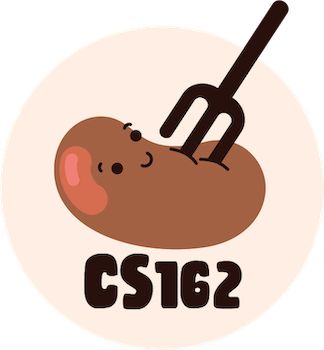
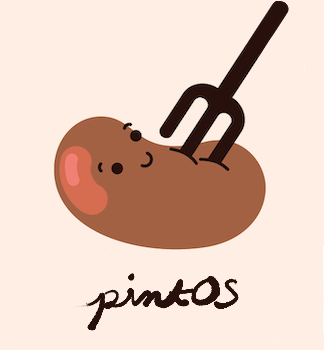
Style cards and create basic fading functions on click

diff --git a/html/portfolio.html b/html/portfolio.html
@@ -90,18 +90,26 @@
 
     <main>
       <section class="projects">
-        <header>
+        <header class="projects-header">
           <h1>projects</h1>
-          <h3>cool things i've worked on</h3>
+          <h3>some fun things i've worked on</h3>
         </header>
 
         <div class="card-group">
           <article class="card">
-            <img src="../images/cards/gemQuest.png" alt="Gems" />
+            <img src="../images/cards/microprocessor-chip.png" alt="Gems" />
             <header>
-              <h2>GemQuest</h2>
-              <h3>Social Networking App</h3>
-              <h4>Summer 2023</h4>
+              <h2>3-Stage RISC CPU</h2>
+              <h3>Digital Logic Design</h3>
+              <h4>Spring 2025</h4>
+            </header>
+          </article>
+          <article class="card">
+            <img src="../images/cards/dinner-in-the-closet.png" alt="Gems" />
+            <header>
+              <h2>Dinner in the Closet</h2>
+              <h3>Queer RPG</h3>
+              <h4>Spring 2024</h4>
             </header>
           </article>
           <article class="card">
@@ -113,32 +121,24 @@
             </header>
           </article>
           <article class="card">
-            <img src="../images/cards/gemQuest.png" alt="Gems" />
+            <img src="../images/cards/pintos.png" alt="Pinto Bean" />
             <header>
-              <h2>GemQuest</h2>
-              <h3>Social Networking App</h3>
-              <h4>Summer 2023</h4>
+              <h2>PintOS</h2>
+              <h3>Operating System</h3>
+              <h4>Spring 2023</h4>
             </header>
           </article>
           <article class="card">
-            <img src="../images/cards/gemQuest.png" alt="Gems" />
+            <img src="../images/cards/gitfork.png" alt="Git Fork" />
             <header>
-              <h2>GemQuest</h2>
-              <h3>Social Networking App</h3>
-              <h4>Summer 2023</h4>
-            </header>
-          </article>
-          <article class="card">
-            <img src="../images/cards/gemQuest.png" alt="Gems" />
-            <header>
-              <h2>GemQuest</h2>
-              <h3>Social Networking App</h3>
-              <h4>Summer 2023</h4>
+              <h2>Gitlet</h2>
+              <h3>Version-Control System</h3>
+              <h4>Fall 2021</h4>
             </header>
           </article>
         </div>
-
       </section>
+      <button class="btn">test</button>
       <!-- <section> -->
       <!--   <header> -->
           <!-- <h1>past experience</h1> -->

diff --git a/styles/portfolio.css b/styles/portfolio.css
@@ -115,8 +115,41 @@ main {
   margin: auto;
 }
 
+@keyframes fade-in {
+  from {
+    opacity: 0%;
+  }
+  to {
+    opacity: 100%;
+  }
+}
+
+@keyframes fade-out {
+  from {
+    opacity: 100%;
+  }
+  to {
+    opacity: 0%;
+  }
+}
+
 .projects {
   max-width: 50vw;
+}
+
+.projects header {
+  margin: 7em 0 5em 0;
+}
+
+.projects header h1 {
+  /* font-family: var(--secondary-font-family); */
+  margin: 0;
+}
+
+.projects-header h3 {
+  font-style: italic;
+  font-weight: 400;
+  color: #7d6658;
 }
 
 .card-group {
@@ -130,8 +163,17 @@ main {
 .card {
   display: flex;
   flex-direction: column;
-  background: linear-gradient(var(--light-primary-color), 10%, var(--light-secondary-color));
+  background: linear-gradient(
+    var(--light-primary-color),
+    var(--light-secondary-color)
+  );
   padding: 2em;
+  border-radius: 2em;
+  transition: 0.25s ease-in-out;
+}
+
+.card:hover {
+  transform: translateY(-1em);
 }
 
 .card img {
@@ -146,15 +188,27 @@ main {
   color: var(--light-bg-color);
   display: flex;
   flex-direction: column;
-  margin-top: 2em;
-  row-gap: 1em;
-
+  justify-content: center;
+  align-items: center;
+  margin: 1em 0 0em 0;
 }
 
 .card header h2,
 .card header h3,
 .card header h4 {
   margin: 0;
+}
+
+.card header h2 {
+  font-weight: 700;
+}
+
+.card header h3 {
+  font-weight: 500;
+}
+
+.card header h4 {
+  font-weight: 400;
 }
 
 .footer {

diff --git a/index.html b/index.html
@@ -17,10 +17,10 @@
     <meta property="og:title" content="Vy Nguyen" />
     <meta property="og:type" content="website" />
     <meta property="og:url" content="https://vyrnguyen.github.io" />
-    <meta
-      property="og:image"
-      content="https://vyrnguyen/vyrnguyen.github.io/images/green-bird-favicons/icons8-bird-pieces-96.png"
-    />
+    <!-- <meta -->
+    <!--   property="og:image" -->
+    <!--   content="https://vyrnguyen/vyrnguyen.github.io/images/green-bird-favicons/icons8-bird-pieces-96.png" -->
+    <!-- /> -->
     <meta
       property="og:description"
       content="Hi! I'm Vy, a computer science
@@ -30,11 +30,11 @@
 
     <!-- References -->
     <link rel="stylesheet" href="styles/style.css" />
-    <link
-      rel="icon"
-      href="images/green-bird-favicons/icons8-bird-pieces-96.png"
-      type="image/x-icon"
-    />
+    <!-- <link -->
+    <!--   rel="icon" -->
+    <!--   href="images/green-bird-favicons/icons8-bird-pieces-96.png" -->
+    <!--   type="image/x-icon" -->
+    <!-- /> -->
 
     <script src="scripts/main.js" defer></script>
     <script src="scripts/particles.js" defer></script>

diff --git a/scripts/portfolio.js b/scripts/portfolio.js
@@ -1,0 +1,43 @@
+const projectSection = document.querySelector(".projects");
+const card = document.querySelector(".card");
+const projectInitDisplay = projectSection.style.display;
+const btn = document.querySelector(".btn");
+
+function fadeOut(element) {
+  var i = 1;
+  var timer = setInterval(function () {
+    if (i <= 0) {
+      clearInterval(timer);
+      element.style.display = "none";
+    }
+    element.style.opacity = i;
+    i -= 0.1;
+  }, 50);
+}
+
+function fadeIn(element) {
+  var i = 0;
+  element.style.display = projectInitDisplay; 
+  var timer = setInterval(function () {
+    if (i >= 1) {
+      clearInterval(timer);
+    }
+    element.style.opacity = i;
+    i += 0.1;
+  }, 50);
+}
+
+var isFaded = false;
+card.addEventListener("click", () => {
+  if (isFaded) {
+    fadeIn(projectSection);
+    isFaded = false;
+  } else {
+    fadeOut(projectSection);
+    isFaded = true;
+  }
+});
+
+btn.addEventListener("click", () => {
+  fadeIn(projectSection);
+})
